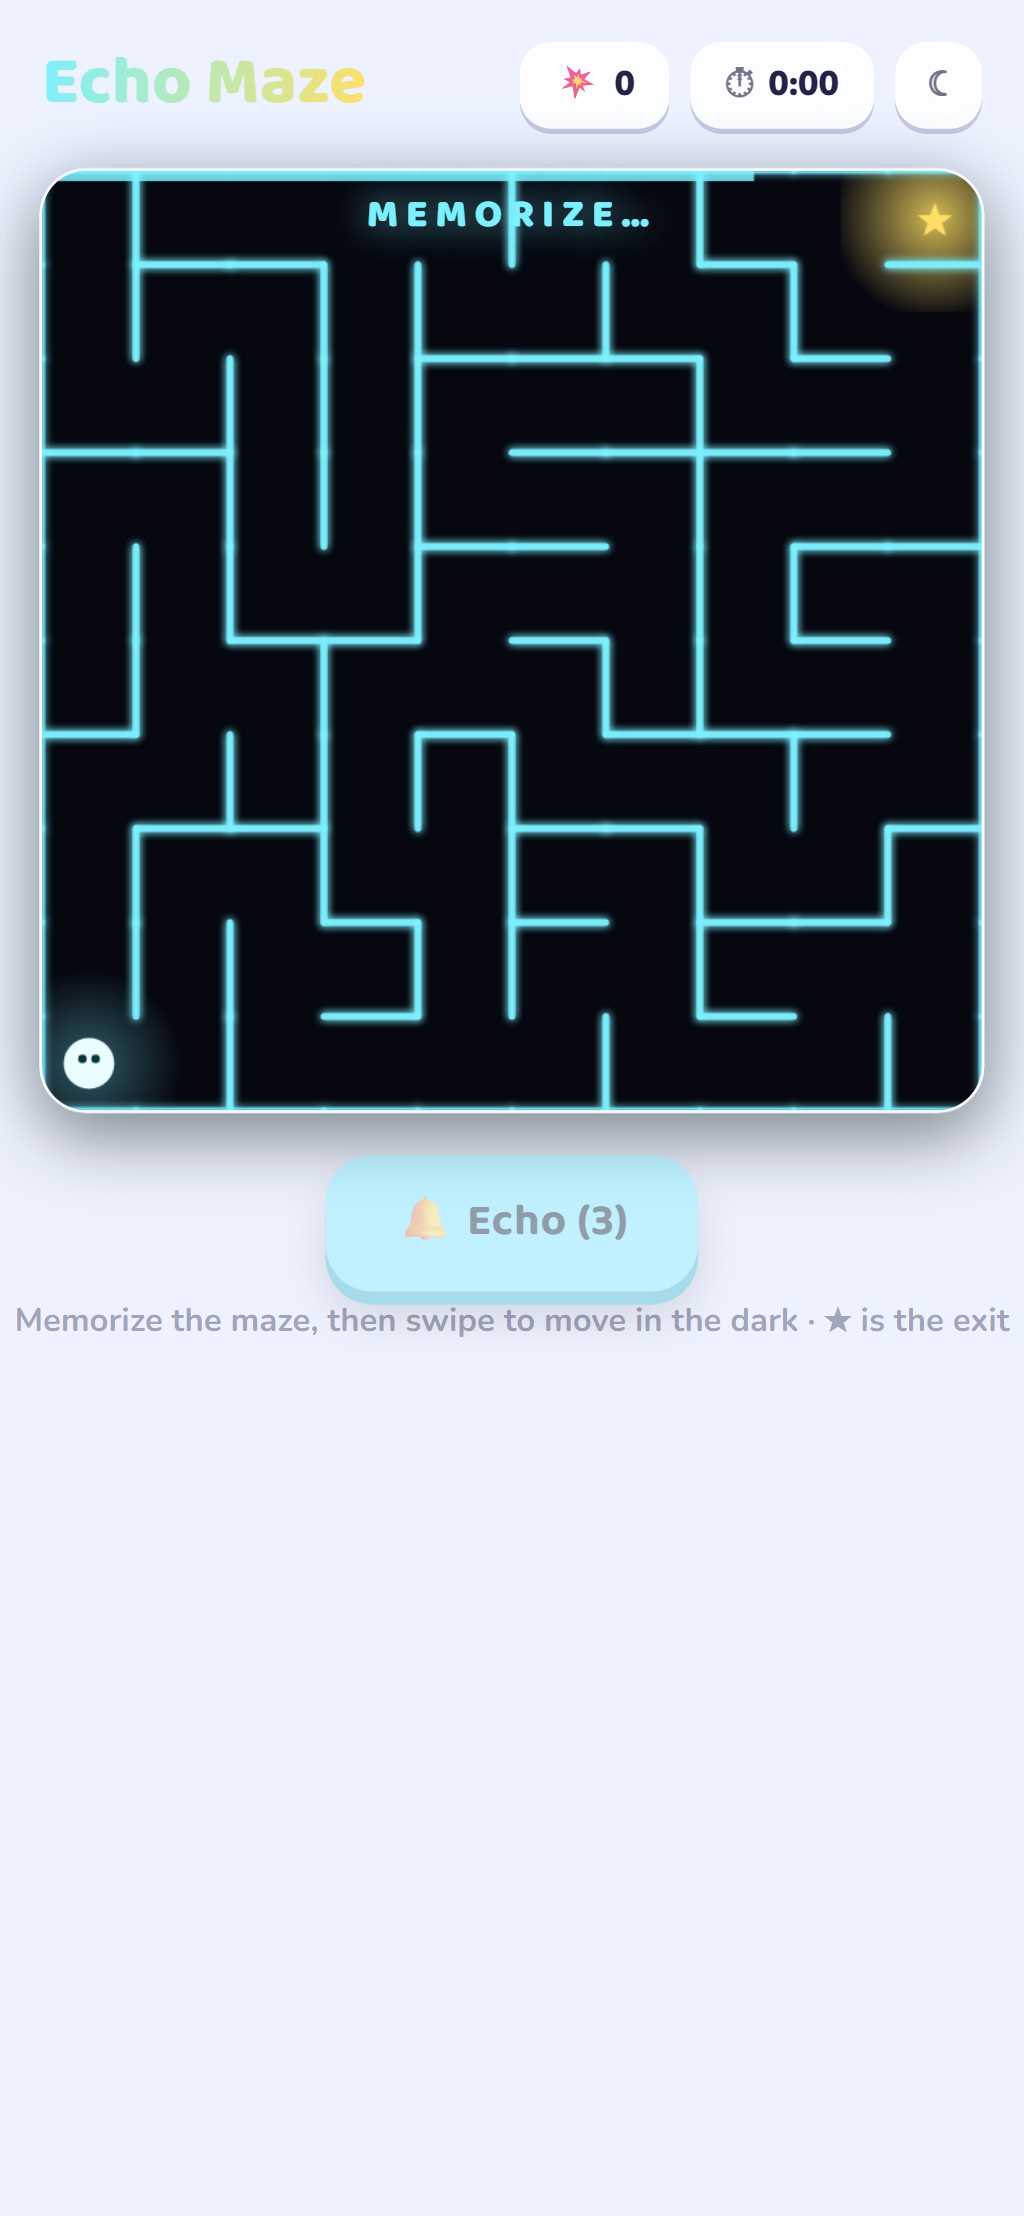
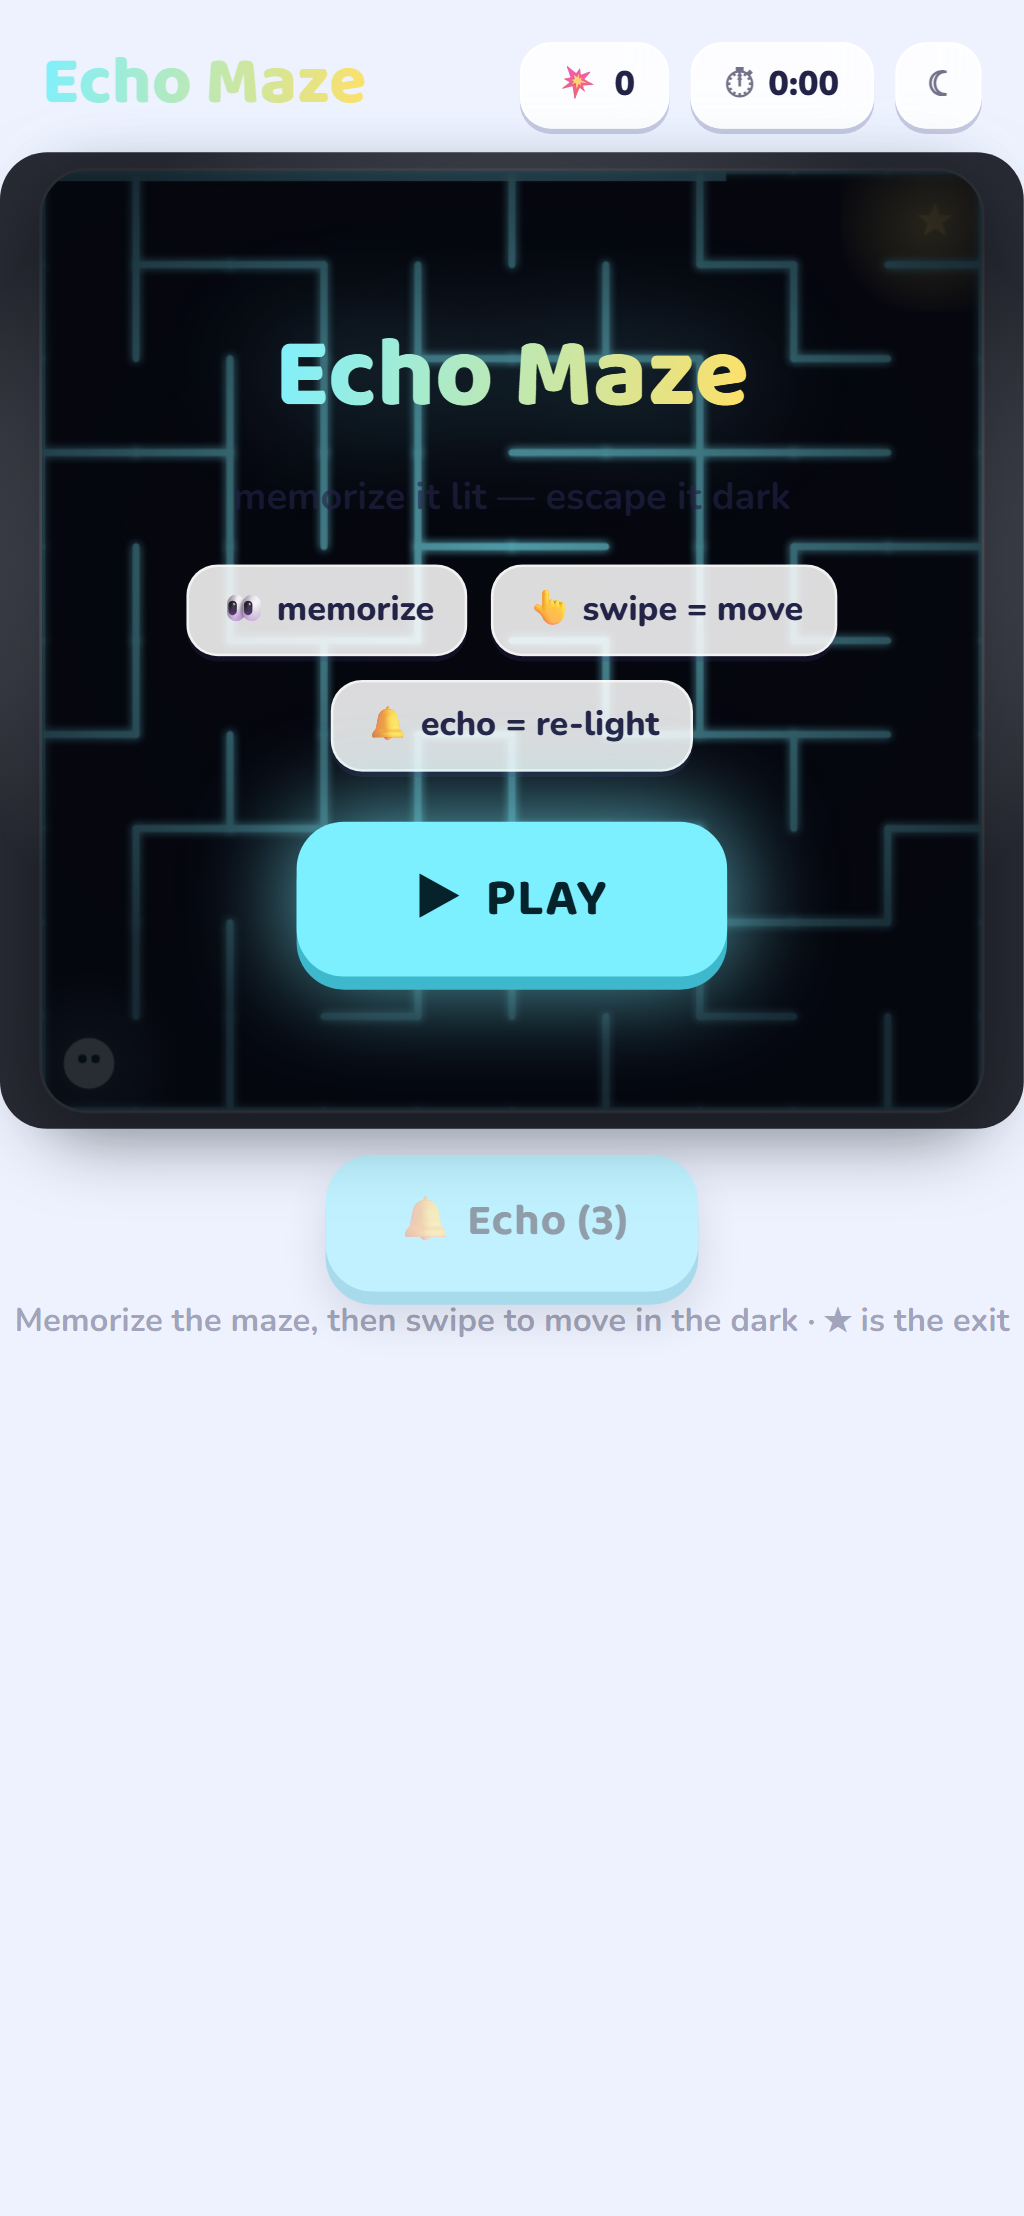
feat(maze): feel overhaul — title screen, sonar echo SFX, height-fit
Memorize clock now starts at PLAY (not page load), bump thud / step tick /
sonar echo ping / win fanfare synth SFX, maze scales to viewport height on
desktop. Fixed PowerShell BOM-less round-trip mojibake via node splicer.
2/2 e2e green.

Changed region(s): [[0.0, 0.0623, 1.0, 0.5293]]

diff --git a/apps/maze/src/lib/sfx.ts b/apps/maze/src/lib/sfx.ts
@@ -1,0 +1,92 @@
+/**
+ * Tiny WebAudio synth SFX â€” zero assets, ~1ms latency, mobile-safe.
+ * Sounds default ON (muting persists); context resumes on first gesture.
+ */
+import { load, save } from './storage';
+
+let ctx: AudioContext | null = null;
+let muted = load<boolean>('muted', false);
+
+function ac(): AudioContext | null {
+  if (muted) return null;
+  try {
+    if (!ctx) ctx = new AudioContext();
+    if (ctx.state === 'suspended') void ctx.resume();
+    return ctx;
+  } catch {
+    return null;
+  }
+}
+
+export function isMuted(): boolean {
+  return muted;
+}
+
+export function setMuted(m: boolean): void {
+  muted = m;
+  save('muted', m);
+}
+
+function blip(freq: number, dur: number, type: OscillatorType, vol: number, slideTo?: number): void {
+  const a = ac();
+  if (!a) return;
+  const o = a.createOscillator();
+  const g = a.createGain();
+  o.type = type;
+  o.frequency.setValueAtTime(freq, a.currentTime);
+  if (slideTo) o.frequency.exponentialRampToValueAtTime(slideTo, a.currentTime + dur);
+  g.gain.setValueAtTime(vol, a.currentTime);
+  g.gain.exponentialRampToValueAtTime(0.0001, a.currentTime + dur);
+  o.connect(g).connect(a.destination);
+  o.start();
+  o.stop(a.currentTime + dur);
+}
+
+/** picking something up â€” bright up-chirp */
+export function sfxEat(): void {
+  blip(420, 0.09, 'triangle', 0.18, 700);
+}
+
+/** big satisfying pop â€” layered chord */
+export function sfxPop(size = 1): void {
+  blip(300, 0.18, 'square', 0.12, 180);
+  blip(520 + size * 40, 0.22, 'triangle', 0.2, 760 + size * 60);
+  blip(1040, 0.12, 'sine', 0.1, 1400);
+}
+
+/** combo escalation â€” semitone pitch ladder (Ã—1.05946^n, capped at one octave) */
+export function sfxCombo(n: number): void {
+  const mult = Math.min(2, Math.pow(1.05946, n));
+  blip(440 * mult, 0.12, 'triangle', 0.16, 660 * mult);
+}
+
+/** death â€” sad down sweep */
+export function sfxDeath(): void {
+  blip(380, 0.5, 'sawtooth', 0.16, 70);
+  blip(190, 0.6, 'triangle', 0.12, 50);
+}
+
+/** UI tap */
+export function sfxClick(): void {
+  blip(660, 0.05, 'sine', 0.1);
+}
+
+/** game start fanfare â€” three quick rising notes */
+export function sfxStart(): void {
+  const a = ac();
+  if (!a) return;
+  [392, 523, 659].forEach((f, i) => {
+    setTimeout(() => blip(f, 0.12, 'triangle', 0.16), i * 90);
+  });
+}
+
+/** wall bump — short low thud */
+export function sfxBump(): void {
+  blip(140, 0.12, 'square', 0.16, 80);
+}
+
+/** echo pulse — sonar ping */
+export function sfxEcho(): void {
+  blip(880, 0.5, 'sine', 0.14, 440);
+  blip(1320, 0.3, 'sine', 0.06, 660);
+}

diff --git a/apps/maze/src/styles/global.css b/apps/maze/src/styles/global.css
@@ -1,4 +1,4 @@
-/* ————— Snake Pop design system: NEON ARCADE —————
+/* â€”â€”â€”â€”â€” Snake Pop design system: NEON ARCADE â€”â€”â€”â€”â€”
    Dark-first: deep void background, neon segment colors,
    glassy raised panels, Duolingo-style 3D buttons. */
 
@@ -20,7 +20,7 @@
     0 14px 36px rgba(0, 0, 0, 0.55);
   --edge-shadow: rgba(0, 0, 0, 0.6);
 
-  /* snake segment colors — 5 vivid neons */
+  /* snake segment colors â€” 5 vivid neons */
   --c0: #00f5a0;  /* neon mint */
   --c0-deep: #00c47e;
   --c1: #ff4ecd;  /* hot pink */
@@ -32,7 +32,7 @@
   --c4: #ff7b2e;  /* vivid orange */
   --c4-deep: #cc5a12;
 
-  /* accent for UI (green→pink gradient, brand mark) */
+  /* accent for UI (greenâ†’pink gradient, brand mark) */
   --accent: #00f5a0;
   --accent-deep: #00c47e;
   --g-accent: linear-gradient(135deg, #00f5a0, #ff4ecd);
@@ -164,7 +164,7 @@ h1, h2, h3 { margin: 0; font-weight: inherit; }
   transition-duration: 0.01ms !important;
 }
 
-/* ——— game layout ——— */
+/* â€”â€”â€” game layout â€”â€”â€” */
 .game-root {
   position: relative;
   width: 100%;
@@ -311,7 +311,7 @@ h1, h2, h3 { margin: 0; font-weight: inherit; }
   font-variant-numeric: tabular-nums;
 }
 
-/* ——— maze-specific ——— */
+/* â€”â€”â€” maze-specific â€”â€”â€” */
 .app-head { display: flex; align-items: center; justify-content: space-between; padding: 14px 16px 6px; }
 .brand {
   font-family: var(--font-display);
@@ -351,3 +351,52 @@ h1, h2, h3 { margin: 0; font-weight: inherit; }
 .countdown-note strong { font-variant-numeric: tabular-nums; color: var(--ink-soft); }
 .maze-root .hud { position: static; transform: none; }
 .maze-root .hint-text { position: static; }
+
+/* â€”â€”â€” title screen â€”â€”â€” */
+.start-overlay {
+  position: absolute;
+  inset: 0;
+  display: flex;
+  flex-direction: column;
+  align-items: center;
+  justify-content: center;
+  gap: 13px;
+  background: radial-gradient(60% 50% at 50% 42%, rgba(6,7,15,0.35) 0%, rgba(6,7,15,0.85) 100%);
+  z-index: 25;
+  padding: 24px;
+  text-align: center;
+  border-radius: 18px;
+}
+.start-title {
+  font-family: var(--font-display);
+  font-size: clamp(38px, 8vw, 60px);
+  font-weight: 800;
+  margin: 0;
+  background: linear-gradient(100deg, #7df0ff, #ffe066);
+  -webkit-background-clip: text;
+  background-clip: text;
+  -webkit-text-fill-color: transparent;
+  filter: drop-shadow(0 0 22px rgba(125, 240, 255, 0.45));
+}
+.start-sub { font-size: 14.5px; font-weight: 700; color: var(--ink-soft); margin: -5px 0 2px; }
+.howto-row { display: flex; gap: 9px; flex-wrap: wrap; justify-content: center; font-size: 13px; font-weight: 800; color: var(--ink); }
+.howto-row span {
+  background: var(--surface);
+  border: 1px solid var(--surface-edge);
+  border-radius: 12px;
+  padding: 7px 12px;
+  box-shadow: 0 2px 0 var(--edge-shadow);
+}
+.start-btn {
+  font-size: 20px;
+  padding: 15px 46px;
+  margin-top: 6px;
+  --btn: #7df0ff;
+  --btn-deep: #3eb8cc;
+  color: #06222b;
+  animation: start-glow 1.4s ease-in-out infinite;
+}
+@keyframes start-glow {
+  0%, 100% { box-shadow: 0 5px 0 var(--btn-deep), 0 0 16px rgba(125, 240, 255, 0.35); }
+  50% { box-shadow: 0 5px 0 var(--btn-deep), 0 0 40px rgba(125, 240, 255, 0.8); }
+}

diff --git a/apps/maze/src/components/GameView.tsx b/apps/maze/src/components/GameView.tsx
@@ -3,6 +3,7 @@ import confetti from 'canvas-confetti';
 import { utcDateString, msUntilNextPuzzle } from '@daily-logic/engine';
 import { dailyMaze, canMove, step, DIRS, type Maze } from '../engine/maze';
 import { tap, pop, death } from '../lib/haptics';
+import { sfxClick, sfxBump, sfxEcho, sfxStart } from '../lib/sfx';
 import { load, save } from '../lib/storage';
 import { useSettings } from '../state/settings';
 
@@ -21,6 +22,7 @@ export default function GameView() {
   const date = utcDateString();
   const mazeRef = useRef<Maze>(dailyMaze(date));
   const canvasRef = useRef<HTMLCanvasElement>(null);
+  const [started, setStarted] = useState(false);
   const [phase, setPhase] = useState<Phase>('reveal');
   const [pos, setPos] = useState(mazeRef.current.start);
   const [bumps, setBumps] = useState(0);
@@ -34,17 +36,20 @@ export default function GameView() {
   const theme = useSettings((s) => s.theme);
   const setSettings = useSettings((s) => s.set);
 
-  // reveal → dark transition
+  // reveal Ã¢â€ â€™ dark transition (the memorise clock starts at PLAY, not load)
   useEffect(() => {
+    if (!started) return;
+    revealStart.current = Date.now();
     const t = setTimeout(() => {
       setPhase((p) => (p === 'reveal' ? 'dark' : p));
       setStartedAt(Date.now());
     }, mazeRef.current.revealMs);
+    return () => clearTimeout(t);
+  }, [started]);
+
+  useEffect(() => {
     const id = setInterval(() => setCountdown(msUntilNextPuzzle()), 1000);
-    return () => {
-      clearTimeout(t);
-      clearInterval(id);
-    };
+    return () => clearInterval(id);
   }, []);
 
   // timer
@@ -61,15 +66,18 @@ export default function GameView() {
       setPos((cur) => {
         if (!canMove(m, cur, dirIdx)) {
           setBumps((b) => b + 1);
+          sfxBump();
           bumpFlash.current = { cell: cur, dir: dirIdx, t: Date.now() };
           death();
           return cur;
         }
         tap();
+        sfxClick();
         const nxt = step(m, cur, dirIdx);
         if (nxt === m.exit) {
           setPhase('won');
           pop();
+          sfxStart();
           const lastWin = load<string>('streak.last', '');
           if (lastWin !== date) {
             const y = new Date(`${date}T00:00:00Z`);
@@ -92,6 +100,7 @@ export default function GameView() {
     if (phase !== 'dark' || echoesLeft <= 0) return;
     setEchoesLeft((e) => e - 1);
     setEchoUntil(Date.now() + 900);
+    sfxEcho();
     tap();
   }, [phase, echoesLeft]);
 
@@ -103,7 +112,9 @@ export default function GameView() {
       bumps: () => bumps,
       move: (d: number) => move(d),
       echo: () => echo(),
+      start: () => setStarted(true),
       skipReveal: () => {
+        setStarted(true);
         setPhase((p) => (p === 'reveal' ? 'dark' : p));
         setStartedAt((s) => s || Date.now());
       },
@@ -117,7 +128,7 @@ export default function GameView() {
     let raf = 0;
     const draw = () => {
       const m = mazeRef.current;
-      const w = Math.min(window.innerWidth - 24, 470);
+      const w = Math.min(window.innerWidth - 24, window.innerHeight - 240, 760);
       const cell = Math.floor(w / m.size);
       const W = cell * m.size;
       const dpr = Math.min(window.devicePixelRatio || 1, 2);
@@ -140,7 +151,7 @@ export default function GameView() {
       // visibility mask radius (in dark phase a lantern around the player)
       const seeR = lit ? W * 2 : cell * 1.9;
 
-      // exit glow (always faintly visible — the goal calls to you)
+      // exit glow (always faintly visible Ã¢â‚¬â€ the goal calls to you)
       const ex = (m.exit % m.size) * cell + cell / 2;
       const ey = Math.floor(m.exit / m.size) * cell + cell / 2;
       const eg = ctx.createRadialGradient(ex, ey, 1, ex, ey, cell * 1.1);
@@ -173,7 +184,7 @@ export default function GameView() {
       }
       ctx.shadowBlur = 0;
 
-      // bump flash — show the wall you hit in red
+      // bump flash Ã¢â‚¬â€ show the wall you hit in red
       const bf = bumpFlash.current;
       if (bf && now - bf.t < 450) {
         const a = 1 - (now - bf.t) / 450;
@@ -303,7 +314,28 @@ export default function GameView() {
 
       <div className="maze-stage" onPointerDown={onDown} onPointerUp={onUp}>
         <canvas ref={canvasRef} className="game-canvas maze-canvas" data-testid="game-canvas" />
-        {phase === 'reveal' && <div className="reveal-tag" data-testid="reveal-tag">MEMORIZE…</div>}
+        {started && phase === 'reveal' && <div className="reveal-tag" data-testid="reveal-tag">MEMORIZE…</div>}
+        {!started && (
+          <div className="start-overlay" data-testid="start-overlay">
+            <h1 className="start-title">Echo Maze</h1>
+            <p className="start-sub">memorize it lit — escape it dark</p>
+            <div className="howto-row">
+              <span>👀 memorize</span>
+              <span>👆 swipe = move</span>
+              <span>🔔 echo = re-light</span>
+            </div>
+            <button
+              className="btn3d start-btn"
+              data-testid="start-btn"
+              onClick={() => {
+                sfxStart();
+                setStarted(true);
+              }}
+            >
+              ▶ &nbsp;PLAY
+            </button>
+          </div>
+        )}
       </div>
 
       <div className="maze-controls">

diff --git a/apps/maze/e2e/maze.spec.ts b/apps/maze/e2e/maze.spec.ts
@@ -31,6 +31,9 @@ test('reveal phase shows, then walk the BFS solution to escape and share', async
   const solution = solveMaze(maze);
 
   await page.goto('./');
+  await expect(page.getByTestId('start-overlay')).toBeVisible();
+  await page.screenshot({ path: path.join(ARTIFACTS, 'title-mobile-dark.png') });
+  await page.getByTestId('start-btn').click();
   await expect(page.getByTestId('reveal-tag')).toBeVisible();
   await page.screenshot({ path: path.join(ARTIFACTS, 'reveal-mobile-dark.png') });
 